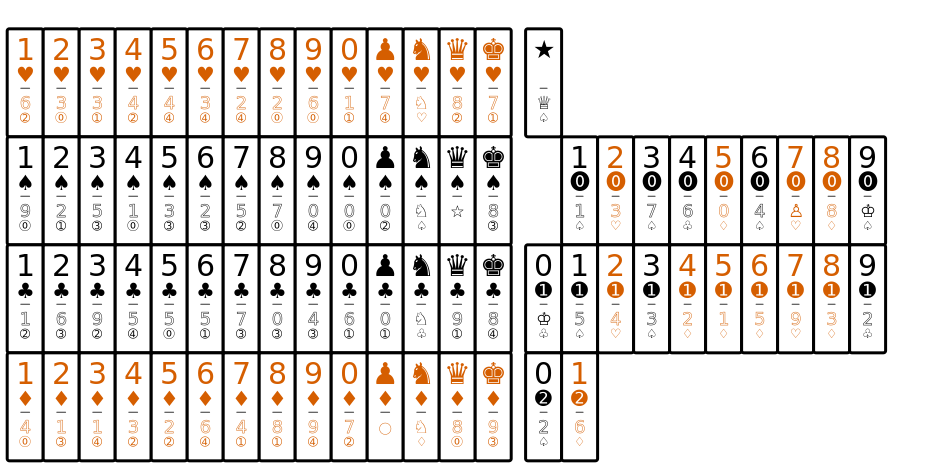
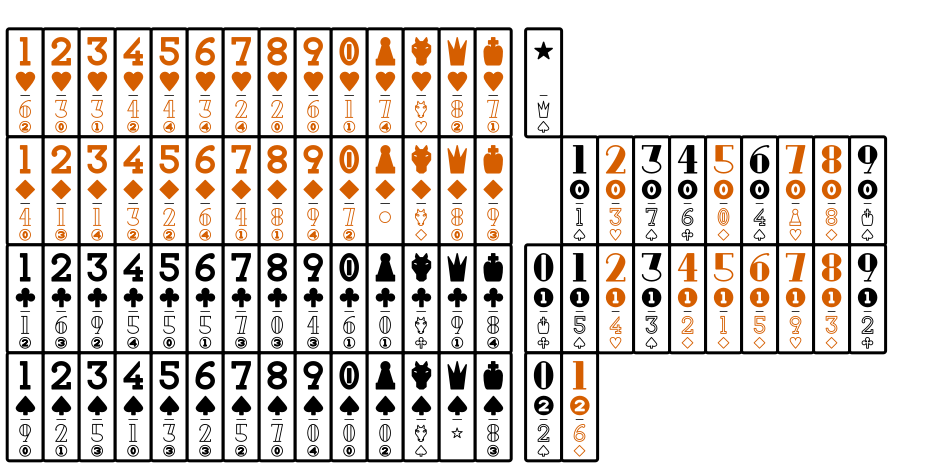
feat: Add orientation helpers and order French suits H,D,C,S in README
Refactors the "dark/light/traditional/number halves up top" README
illustrations to use new internal `dotaro_orientation_*()` helpers
(with `dotaro_split_lr()`/`dotaro_scale_xy()` for future booklet-page
layouts), and reorders the French suits to hearts, diamonds, clubs,
spades (top-to-bottom / left-to-right) throughout, including a
restructured "Two decks" example with separate dark/light/knight blocks.

Changed region(s): [[0.0, 0.5385, 0.9605, 0.9872], [0.0, 0.0598, 0.5887, 0.5085], [0.5887, 0.2991, 0.9605, 0.5085]]

diff --git a/README.md b/README.md
@@ -6,7 +6,7 @@
 * [Orientations](#orientations)
 * [Examples](#examples)
 * [Frequently Asked Questions](#faq)
-* [Prior art](#prior)
+* [External links](#external)
 
 
 
@@ -193,7 +193,7 @@
 * The *Dotaro Deck* is inspired by domino sets and tarot decks and Dotaro is an abbreviation of Domino Tarot.
 * In Esperanto the word "dotaro" would mean something like "collection of endowments" and the *Dotaro Deck* can be used to play a wide variety of the playing card legacies our ancestors have endowed us with.
 
-## <a name="prior">Prior Art</a>
+## <a name="external">External links</a>
 
 ### Overviews
 
